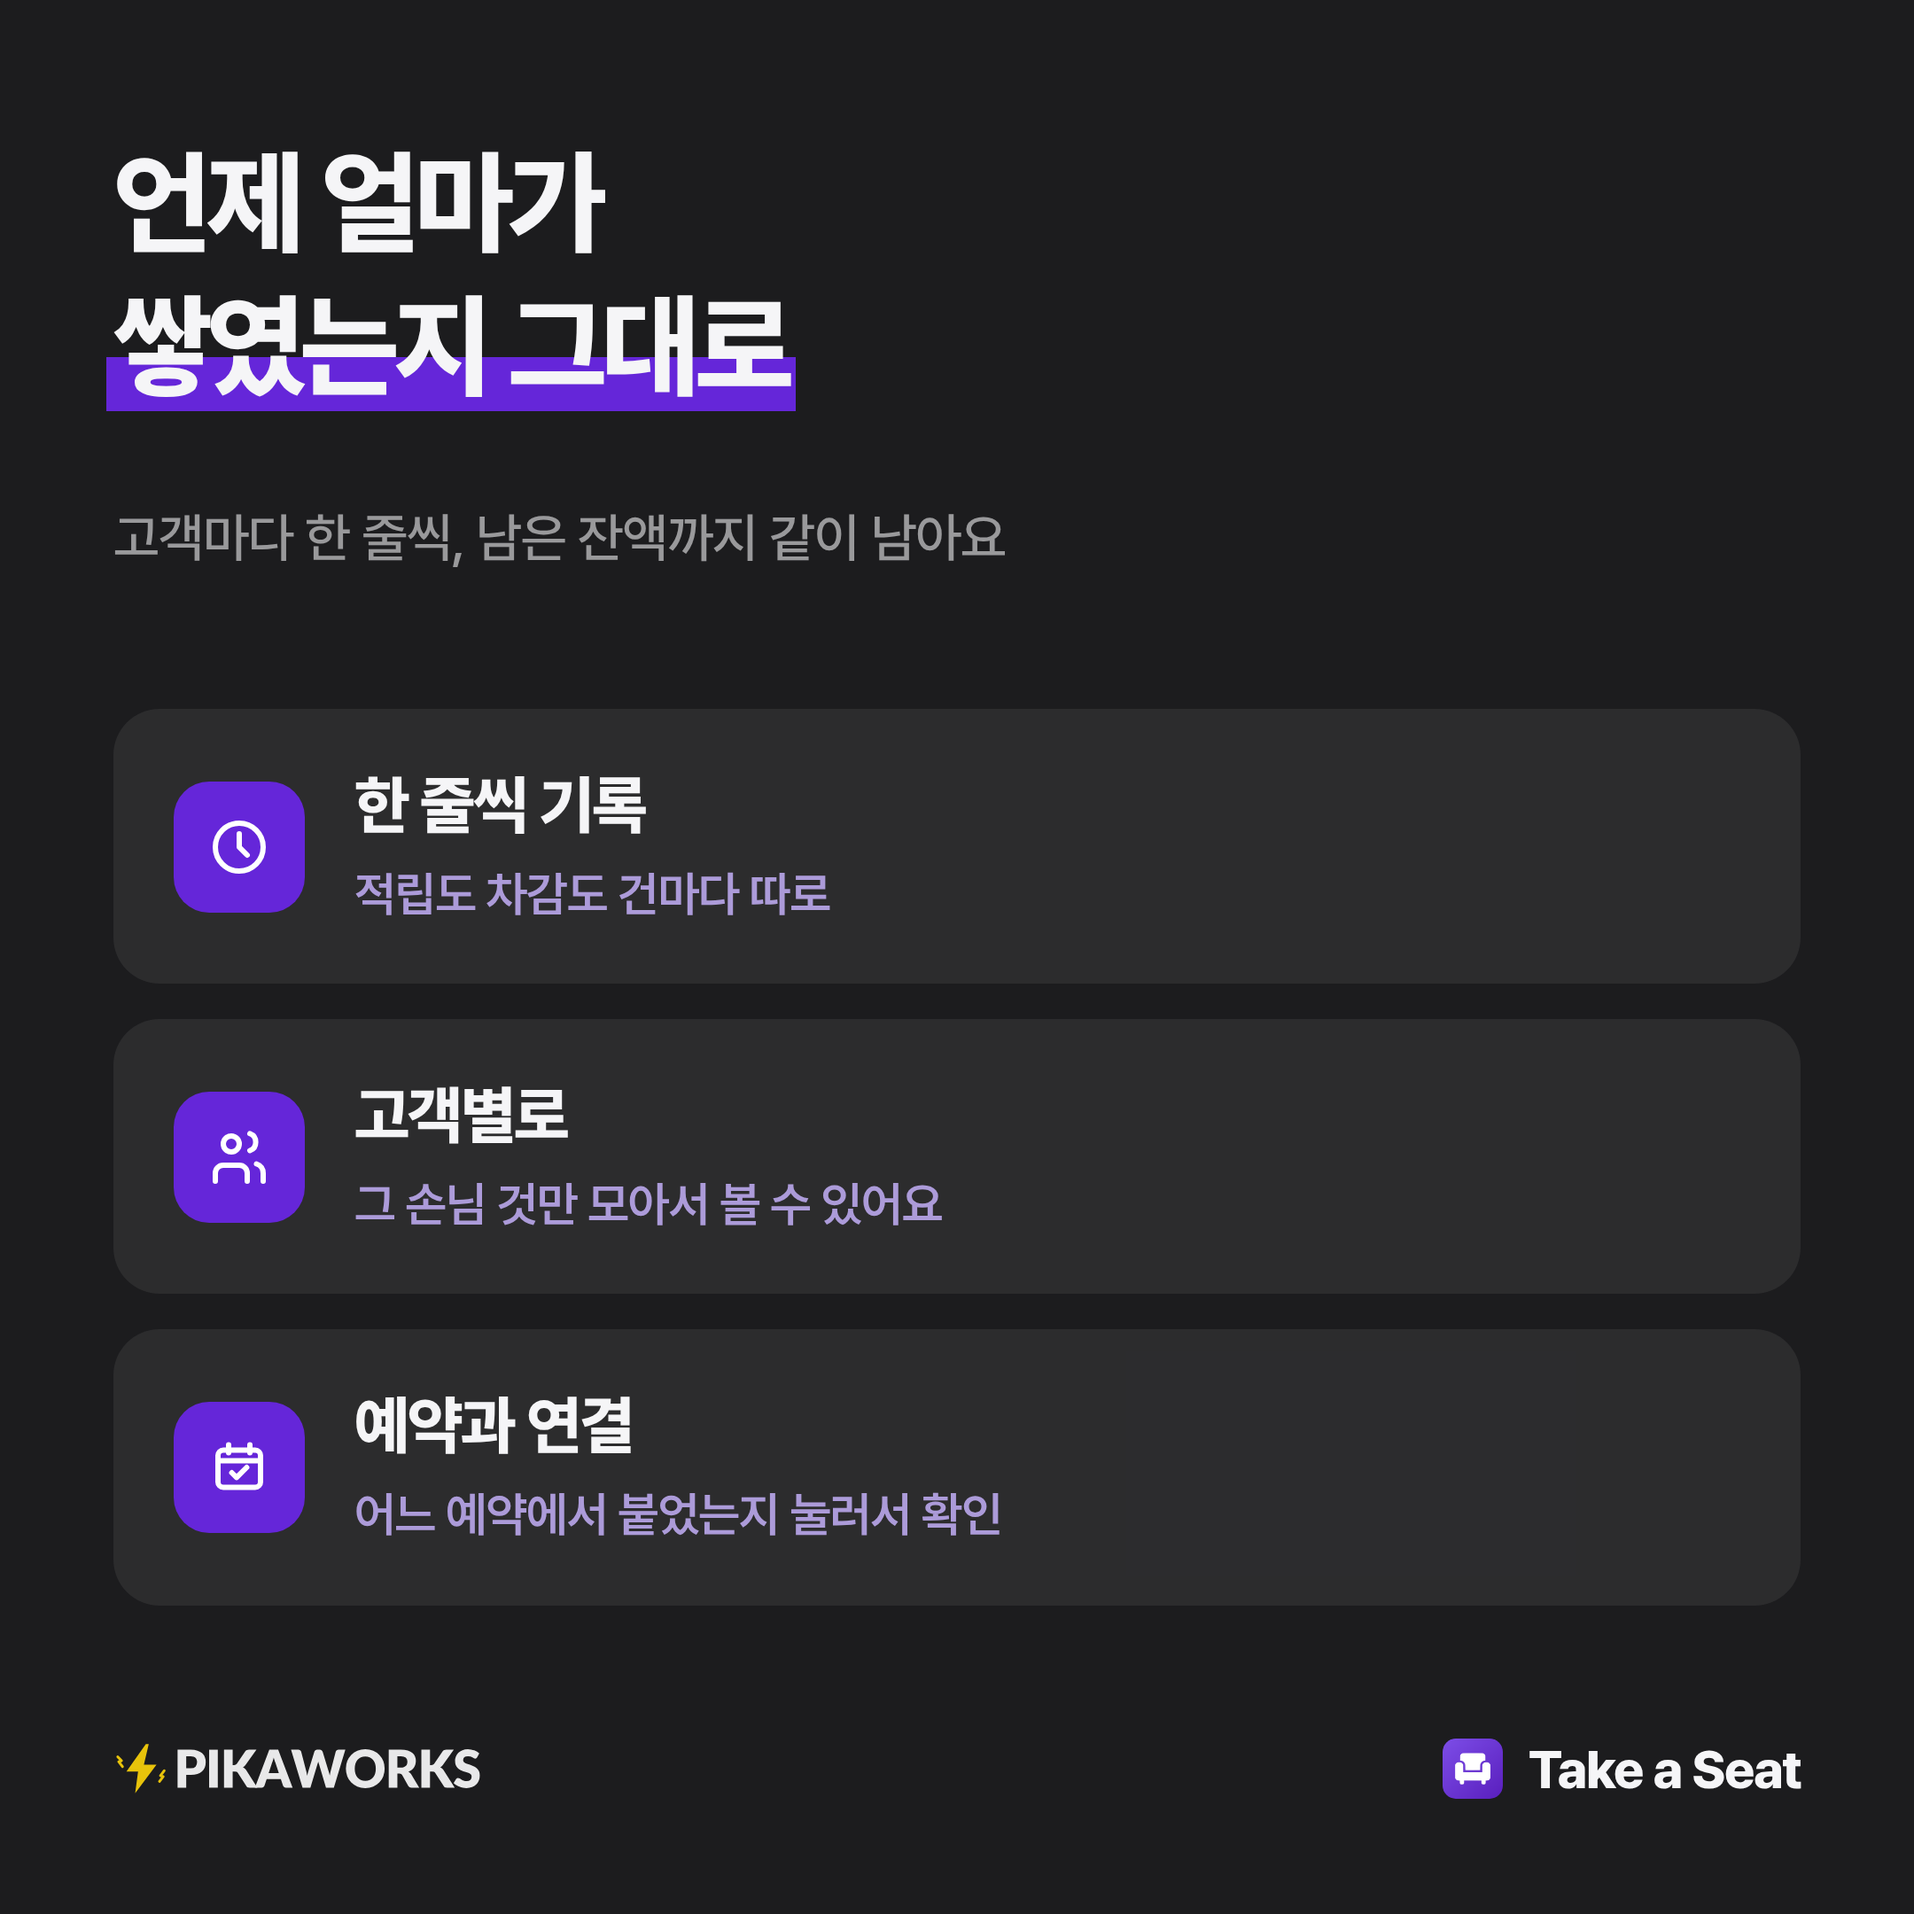
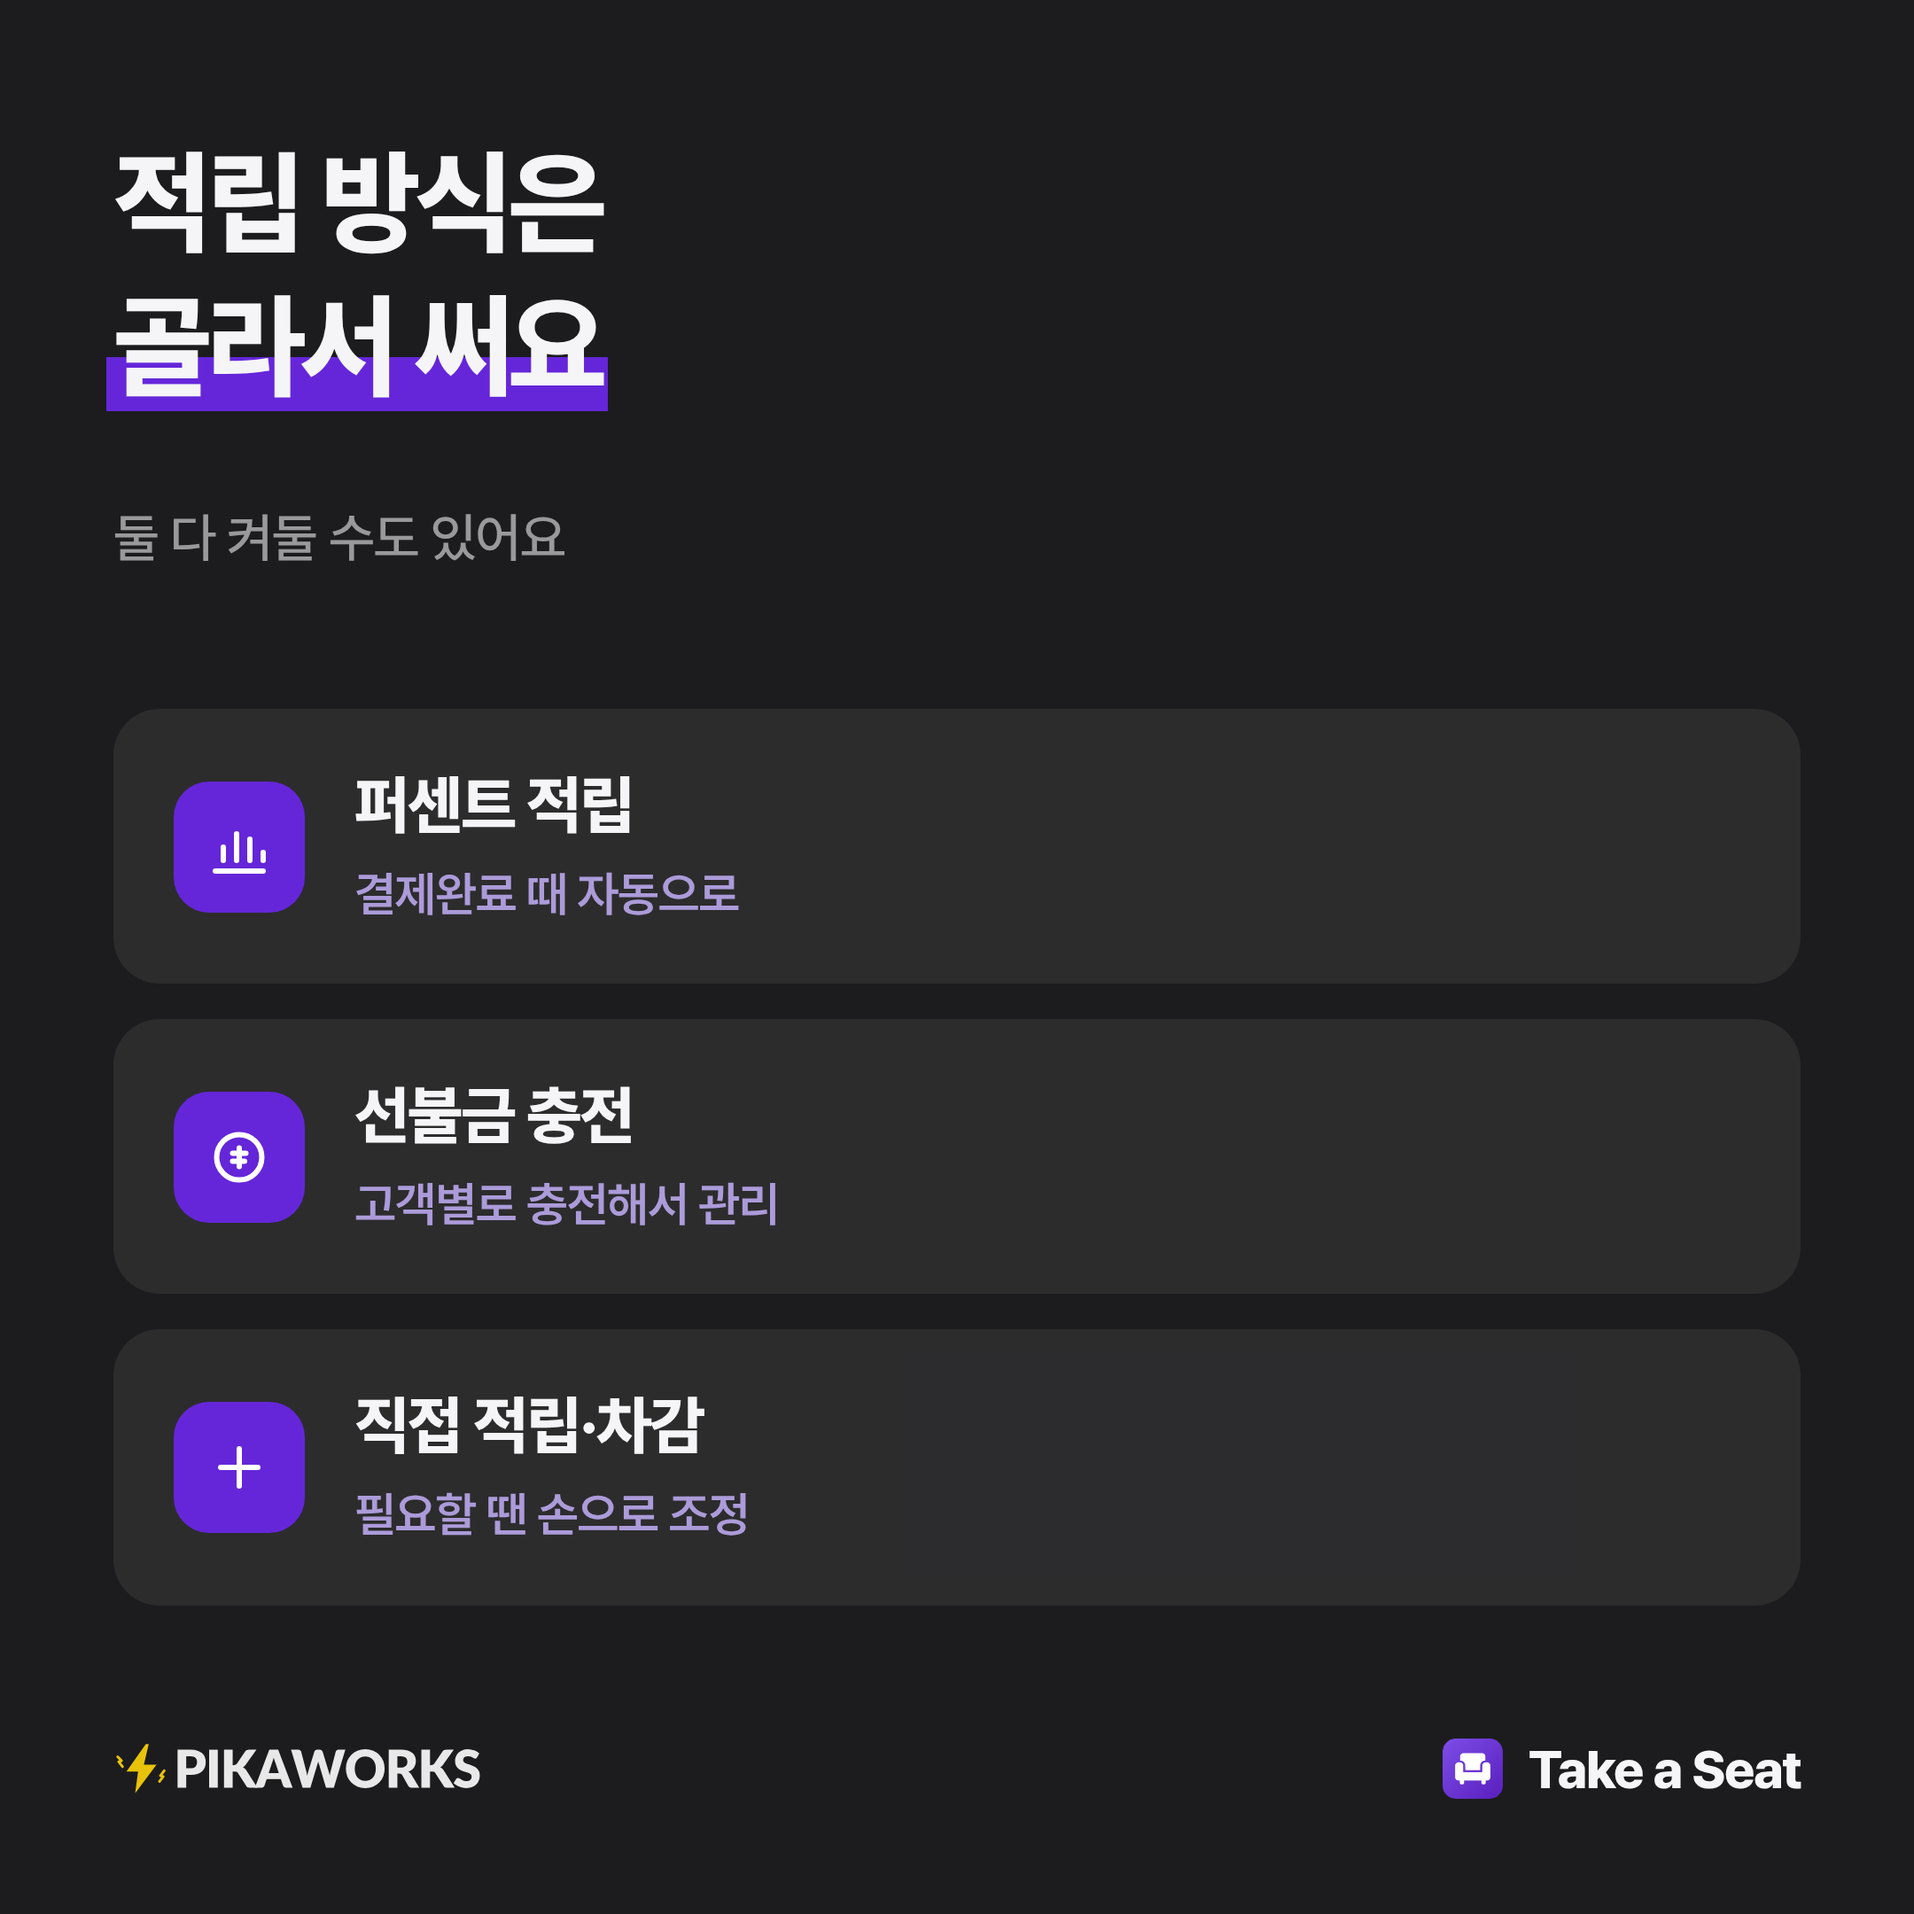
content(takeaseat-2): 앵글을 '검색 한 번에 조회' 로 교체
사용자가 방향을 바꿨다. 사장님의 통증(잔여 횟수를 못 센다)으로 여는 대신
기능으로 연다 — 전역 고객 검색 한 번이면 고객정보에서 적립금 잔액·이력·
예약 내역이 다 나온다.

후킹과 캡션 문장은 사용자가 직접 잡았고, 그 결에 맞춰 나머지를 줄였다.
위치 묘사(맨 위에·그 아래)와 서사를 빼고 '조회가 가능해요' 식 기능 말로
통일했다. 내가 쓰던 '모여요·떠요·열려요' 같은 부드러운 자동사는 뭐가
보이는지를 안 말해서 전부 걷어냈다.

사실 확인 (tas@99390ef, 새로 클론)
  헤더·푸터 전역 고객 검색      HeaderSearchLayer.tsx, Footer.tsx
  이름 또는 연락처 부분 일치     c.name.includes(q) || c.tel.includes(q)
  누르면 고객 상세              handleSelect → openCustomerDetail(id)
  잔액·이력·예약 내역           CustomerDetail.tsx:398, 455, 472
  적립 방식 두 가지, 병행 가능   PointSettingsTab.tsx (체크박스 2개)
  직접 적립·차감                PointAdjustTab.tsx:59, 62

쿠폰은 뺐다 — 발급 UI 가 없다. 앱 안내문도 '발급·결제 차감은 추후
지원됩니다' 다. 회원권도 뺐다 — 고객정보 화면에 없어서 '검색 한 번에'
안에 못 들어간다.

이미지 5장으로 다시 만들고 렌더 후 눈으로 세 번 고쳤다.
아이콘이 뜻과 어긋난 것들 — 이름에 목록 글리프, 번호에 봉투,
메모에 종. 그리고 돈 아이콘 두 개가 외화였다: revenue 는 달러 $,
공용 coin 은 엔화 ¥. 원화 서비스 광고에 쓸 수 없어 point 로 바꾸고
같은 함정을 sns-designer SKILL.md 에 적어 뒀다.

Claude-Session: https://claude.ai/code/session_01QZXqHKWR1E4ZNAZFY5AzgV

diff --git a/.claude/skills/sns-designer/SKILL.md b/.claude/skills/sns-designer/SKILL.md
@@ -56,6 +56,10 @@ pikaworks 인스타그램 이미지를 만든다. 직접 그리지 않는다 —
 공용 아이콘: `chat` `bookmark` `folder` `globe` `link` `calendar` `clock`
 `users` `coin` `chart` `bell` `check` `sparkle` `lock` `phone` `ticket` `tag`
 
+**돈에는 `revenue` 도 `coin` 도 쓰지 않는다.** `revenue`(TAS 자체 세트)는 달러 `$`,
+공용 `coin` 은 엔화 `¥` 글리프다. 원화 서비스 광고에 외화 기호가 박힌다.
+금액에는 `point` 를 쓴다 — TAS 가 적립금에 실제로 쓰는 글리프다.
+
 **서비스 저장소에서 가져온 실제 아이콘이 있으면 그걸 먼저 쓴다.**
 Take a Seat 은 `assets/icons/takeaseat.json` 에 사이드바가 실제로 쓰는 26개가
 들어 있다 (`point` `membership` `coupon` `history` `customers` `booking`
